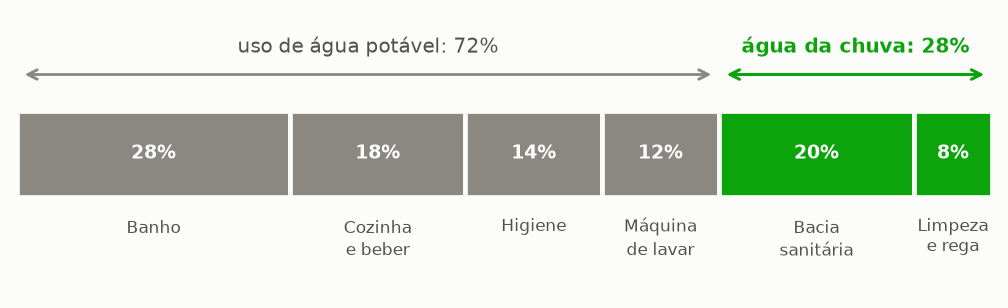
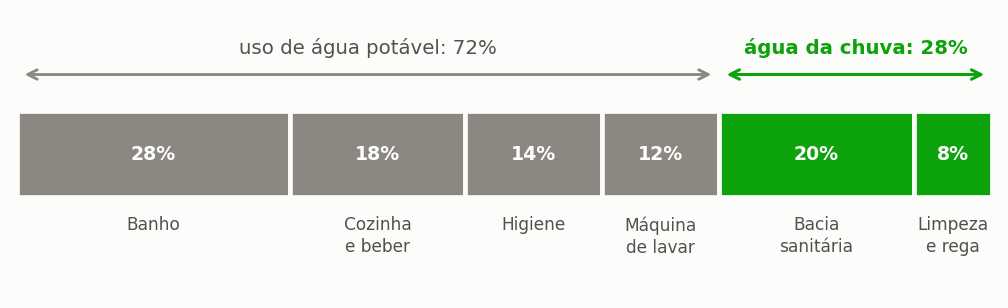
Ajustes no 3D

diff --git a/netuno/core/study_layout.py b/netuno/core/study_layout.py
@@ -1,0 +1,195 @@
+"""Geração de traçado 3D e componentes BIM pré-preenchidos a partir do estudo.
+
+Permite que o projetista visualize a planta e a volumetria 3D imediatamente a
+partir dos parâmetros calculados na simulação e nas diretrizes normativas
+(ABNT NBR 15527:2019, ABNT NBR 5626:2020 e ABNT NBR 10844:1989), sem ter que
+começar de uma tela em branco ou digitar coordenadas manualmente.
+"""
+
+from __future__ import annotations
+
+import math
+from typing import Any, Dict, List, Optional
+
+from netuno.core.component_geometry import tank_dimensions_mm
+from netuno.core.cad_exporter import _extract_upper_vol, calculate_forchheimer_pumping_diameters
+
+
+def _number(value: Any, default: float = 0.0) -> float:
+    if value is None or value == "" or value == "-":
+        return default
+    try:
+        if isinstance(value, str):
+            value = value.strip().replace(",", ".")
+        num = float(value)
+        return num if math.isfinite(num) and num > 0 else default
+    except (ValueError, TypeError):
+        return default
+
+
+def generate_study_layout(project_data: Optional[Dict[str, Any]] = None) -> Dict[str, Any]:
+    """Gera um layout BIM 3D completo e válido baseado nos dados do estudo.
+
+    Parâmetros considerados:
+    - ``lower_vol``: volume calculado da cisterna inferior (L).
+    - ``upper_vol``: volume do reservatório superior (L).
+    - ``area``: área de captação da cobertura (m²).
+    - ``discard``: lâmina de descarte inicial (mm; padrão 2 mm conforme NBR 15527).
+    - ``floors``: número de pavimentos (padrão 2).
+    - Hidráulica da motobomba e diâmetros econômicos de Forchheimer (NBR 5626).
+    """
+    data = dict(project_data or {})
+
+    # Volumes dimensionados
+    lower_vol = _number(data.get("lower_vol"), 5000.0)
+    upper_vol = _extract_upper_vol(data, 1000.0)
+    area = _number(data.get("area"), 150.0)
+
+    # Pavimentos e dimensões da edificação
+    bldg_vol = data.get("building_volume") or {}
+    floors = int(_number(data.get("floors") or bldg_vol.get("floors"), 2.0))
+    floors = max(1, min(floors, 40))
+    bldg_h = float(floors * 3000.0)
+
+    # Largura e profundidade proporcionais à área de captação
+    bldg_w = max(8000.0, round(math.sqrt(area * 1.5) * 1000.0 / 500.0) * 500.0)
+    bldg_d = max(6000.0, round((area / (bldg_w / 1000.0)) * 1000.0 / 500.0) * 500.0)
+
+    # Geometria dos reservatórios (NBR 15527 / NBR 5626)
+    d_ci, h_ci, _, _ = tank_dimensions_mm("cisterna_inferior", {}, lower_vol)
+    d_rs, h_rs, _, _ = tank_dimensions_mm("reservatorio_superior", {}, upper_vol)
+    alt_ci = max(1000.0, round(h_ci / 50.0) * 50.0)
+    diam_ci = max(800.0, round(d_ci / 50.0) * 50.0)
+    alt_rs = max(600.0, round(h_rs / 50.0) * 50.0)
+    diam_rs = max(800.0, round(d_rs / 50.0) * 50.0)
+
+    # Diâmetros de sucção e recalque (Forchheimer / NBR 5626)
+    daily_l = _number(data.get("pluv_day"), 800.0)
+    pump_hp = str(data.get("pump_hp") or "1/2")
+    flow_m3_h = _number(data.get("pump_flow_rate_m3_h"), 0.0)
+    pumping = calculate_forchheimer_pumping_diameters(
+        pump_flow_rate_m3_h=flow_m3_h,
+        daily_pumped_volume_l=daily_l,
+        pump_hp=pump_hp
+    )
+    dn_rec = float(pumping.get("dn_recalque_comercial_mm") or 25.0)
+    dn_suc = float(pumping.get("dn_succao_comercial_mm") or 32.0)
+
+    # Coordenadas dos componentes (em mm, z para cima)
+    # Cisterna enterrada no recuo externo
+    x_ci = -1500.0 - diam_ci / 4.0
+    y_ci = 1500.0 + diam_ci / 4.0
+    z_ci = -alt_ci
+
+    # Motobomba no abrigo térreo
+    x_b = 500.0
+    y_b = y_ci
+    z_b = 0.0
+
+    # Reservatório superior na cobertura (barrilete sobre a laje superior)
+    x_rs = min(bldg_w - 2000.0, max(3000.0, bldg_w * 0.5))
+    y_rs = min(bldg_d - 2000.0, max(2500.0, bldg_d * 0.5))
+    z_rs = bldg_h + 500.0
+
+    components: List[Dict[str, Any]] = [
+        {
+            "instance_id": "CI-01",
+            "type_id": "cisterna_inferior",
+            "level": "Subsolo / Enterrada",
+            "position_mm": {"x": x_ci, "y": y_ci, "z": z_ci},
+            "rotation_deg": 0.0,
+            "parameters": {
+                "CAPACIDADE_L": lower_vol,
+                "DIAMETRO_MM": diam_ci,
+                "ALTURA_MM": alt_ci,
+            },
+        },
+        {
+            "instance_id": "B-01",
+            "type_id": "motobomba",
+            "level": "Térreo",
+            "position_mm": {"x": x_b, "y": y_b, "z": z_b},
+            "rotation_deg": 0.0,
+            "parameters": {
+                "POTENCIA_KW": 0.37,
+                "VAZAO_L_MIN": 60.0,
+                "ALTURA_MCA": 12.0,
+            },
+        },
+        {
+            "instance_id": "RS-01",
+            "type_id": "reservatorio_superior",
+            "level": f"Cobertura (+{bldg_h/1000:.1f} m)",
+            "position_mm": {"x": x_rs, "y": y_rs, "z": z_rs},
+            "rotation_deg": 0.0,
+            "parameters": {
+                "CAPACIDADE_L": upper_vol,
+                "DIAMETRO_MM": diam_rs,
+                "ALTURA_MM": alt_rs,
+            },
+        },
+    ]
+
+    # Geometria dos trechos de tubulação
+    offset_rec = 900.0
+    dx_shaft = (x_rs - offset_rec) - x_b
+    dy_shaft = y_rs - y_b
+    h_topo = z_rs + alt_rs
+    dz_sobe = h_topo + 300.0
+
+    runs: List[Dict[str, Any]] = [
+        {
+            "run_id": "T-01",
+            "system": "captacao",
+            "dn_mm": 100.0,
+            "material": "PVC",
+            "level": "Cobertura",
+            "start": {"x": x_ci - 1500.0, "y": y_ci, "z": bldg_h},
+            "route": f"d 1500 0 -20; desce {bldg_h - 20:g}",
+            "end": "CI-01:topo",
+        },
+        {
+            "run_id": "T-02",
+            "system": "succao",
+            "dn_mm": dn_suc,
+            "material": "PVC",
+            "level": "Térreo",
+            "start": "CI-01",
+            "route": f"sobe {alt_ci:g}; +x {x_b - x_ci:g}",
+            "end": "B-01",
+        },
+        {
+            "run_id": "T-03",
+            "system": "recalque",
+            "dn_mm": dn_rec,
+            "material": "PVC",
+            "level": "Prumada",
+            "start": "B-01",
+            "route": f"+x {dx_shaft:g}; +y {dy_shaft:g}; sobe {dz_sobe:g}; +x {offset_rec:g}; desce 300",
+            "end": "RS-01:topo",
+        },
+        {
+            "run_id": "T-04",
+            "system": "distribuicao",
+            "dn_mm": 25.0,
+            "material": "PVC",
+            "level": "Barrilete",
+            "start": "RS-01:fundo",
+            "route": f"desce {z_rs - 1000.0:g}; -y 2000",
+            "end": None,
+        },
+    ]
+
+    building_volume: Dict[str, Any] = {
+        "origin_mm": {"x": 0.0, "y": 0.0, "z": 0.0},
+        "width_mm": bldg_w,
+        "depth_mm": bldg_d,
+        "height_mm": bldg_h,
+        "floors": floors,
+    }
+
+    return {
+        "bim_components": components,
+        "pipe_runs": runs,
+        "building_volume": building_volume,
+    }

diff --git a/netuno/ui/dialogs/pipe_runs_dialog.py b/netuno/ui/dialogs/pipe_runs_dialog.py
@@ -72,6 +72,9 @@ class PipeRunsDialog(QDialog):
         # tabela, mas são preservados por linha para não se perderem ao salvar.
         self._extra_component_parameters: Dict[int, Dict[str, Any]] = {}
         layout = layout or {}
+        if not (layout.get("bim_components") or layout.get("pipe_runs")):
+            from netuno.core.study_layout import generate_study_layout
+            layout = generate_study_layout(self._project_data)
 
         root = QVBoxLayout(self)
         intro = QLabel(tr(
@@ -103,6 +106,33 @@ class PipeRunsDialog(QDialog):
 
     # ── Componentes ──
 
+    def apply_study_layout(self) -> None:
+        """Substitui a organização atual pelo traçado normativo pré-preenchido do estudo."""
+        from netuno.core.study_layout import generate_study_layout
+
+        layout = generate_study_layout(self._project_data)
+        self.table_components.setRowCount(0)
+        self._extra_component_parameters.clear()
+        for item in layout.get("bim_components") or []:
+            self.add_component(item)
+
+        self.table_runs.setRowCount(0)
+        for run in layout.get("pipe_runs") or []:
+            self.add_run(run)
+
+        bldg = layout.get("building_volume") or {}
+        orig = bldg.get("origin_mm") or {}
+        for k in ("x", "y", "z"):
+            if k in self.building_fields:
+                self.building_fields[k].setValue(float(orig.get(k, 0.0)))
+        for k in ("width_mm", "depth_mm", "height_mm"):
+            if k in self.building_fields:
+                self.building_fields[k].setValue(float(bldg.get(k, 0.0)))
+        if hasattr(self, "spin_floors"):
+            self.spin_floors.setValue(int(bldg.get("floors", 1)))
+
+        self.refresh_preview()
+
     def _build_components_box(self, components: List[Dict[str, Any]], building: Dict[str, Any]) -> QWidget:
         box = QWidget()
         lay = QVBoxLayout(box)
@@ -111,7 +141,11 @@ class PipeRunsDialog(QDialog):
         title = QLabel(tr("<b>1. Componentes posicionados</b>"))
         head.addWidget(title)
         head.addStretch()
-        for label, slot in ((tr("+ Componente"), self.add_component), (tr("− Remover"), self._remove_component)):
+        for label, slot in (
+            (tr("+ Componente"), self.add_component),
+            (tr("− Remover"), self._remove_component),
+            (tr("⚡ Pré-preencher do Estudo"), self.apply_study_layout),
+        ):
             btn = QPushButton(label)
             btn.clicked.connect(slot)
             head.addWidget(btn)

diff --git a/tests/unit/test_study_layout.py b/tests/unit/test_study_layout.py
@@ -1,0 +1,42 @@
+"""Testes para geração de layout 3D a partir dos dados do estudo."""
+
+from netuno.core.bim_exporter import build_bim_manifest, validate_bim_manifest
+from netuno.core.schematic_3d import generate_schematic_3d_svg
+from netuno.core.study_layout import generate_study_layout
+from netuno.core.volumetry import build_volumetry
+
+
+def test_generate_study_layout_creates_valid_bim_manifest():
+    project_data = {
+        "project_name": "Edifício Residencial Teste",
+        "lower_vol": 8000.0,
+        "upper_vol": 2000.0,
+        "area": 250.0,
+        "floors": 3,
+    }
+    layout = generate_study_layout(project_data)
+    assert len(layout["bim_components"]) == 3
+    assert len(layout["pipe_runs"]) == 4
+    assert layout["building_volume"]["floors"] == 3
+
+    full_project = dict(project_data, **layout)
+    manifest = build_bim_manifest(full_project)
+    errors = validate_bim_manifest(manifest)
+    assert errors == []
+    assert manifest["validation"]["warnings"] == []
+
+    # Valida geração de volumetria 3D e esquema SVG
+    scene = build_volumetry(full_project)
+    assert len(scene.solids) > 10
+
+    svg = generate_schematic_3d_svg(full_project)
+    assert "Esquema 3D da tubulação" in svg
+    assert "CI-01" in svg and "RS-01" in svg
+
+
+def test_generate_study_layout_with_defaults():
+    layout = generate_study_layout({})
+    assert len(layout["bim_components"]) == 3
+    assert len(layout["pipe_runs"]) == 4
+    manifest = build_bim_manifest(layout)
+    assert validate_bim_manifest(manifest) == []

diff --git a/tests/ui/test_pipe_runs_dialog.py b/tests/ui/test_pipe_runs_dialog.py
@@ -62,3 +62,22 @@ def test_dialog_builds_volumetry_with_building_and_exports(qapp, tmp_path, monke
     dialog.move_run(-1)
     dialog.refresh_preview()
     assert dialog.volumetry.view.scene is None and not dialog.btn_glb.isEnabled()
+
+
+def test_dialog_prefills_from_study_when_layout_is_empty(qapp):
+    project_data = {"project_name": "Casa Modelo Estudo", "lower_vol": 6000, "upper_vol": 1500, "floors": 2}
+    dialog = PipeRunsDialog(None, layout=None, project_data=project_data)
+    # Deve vir automaticamente pré-preenchido e válido
+    assert dialog.refresh_preview() == []
+    assert dialog.preview.has_drawing()
+    assert dialog.volumetry.view.scene is not None
+    assert len(dialog.get_layout()["bim_components"]) == 3
+    assert len(dialog.get_layout()["pipe_runs"]) == 4
+
+    # Testa o botão/método apply_study_layout
+    dialog.table_runs.setRowCount(0)
+    assert dialog.table_runs.rowCount() == 0
+    dialog.apply_study_layout()
+    assert dialog.table_runs.rowCount() == 4
+    assert dialog.refresh_preview() == []
+

diff --git a/netuno/ui/tab_export.py b/netuno/ui/tab_export.py
@@ -441,6 +441,11 @@ class TabExport(QWidget):
                     pass
         layout = getattr(mw, "bim_layout", None) or {}
         data = dict(data)
+        if not (layout.get("bim_components") or layout.get("pipe_runs")):
+            from netuno.core.study_layout import generate_study_layout
+            layout = generate_study_layout(data)
+            if mw:
+                mw.bim_layout = layout
         data["bim_components"] = list(layout.get("bim_components") or [])
         data["pipe_runs"] = list(layout.get("pipe_runs") or [])
         data["building_volume"] = dict(layout.get("building_volume") or {})
